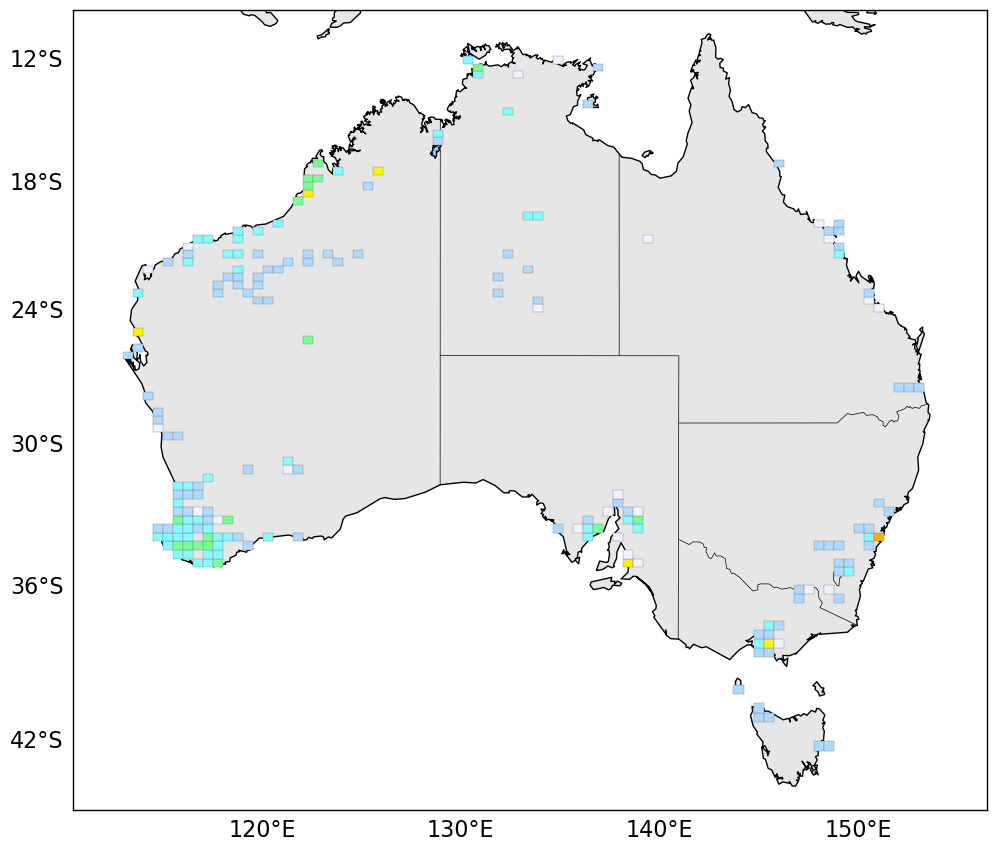
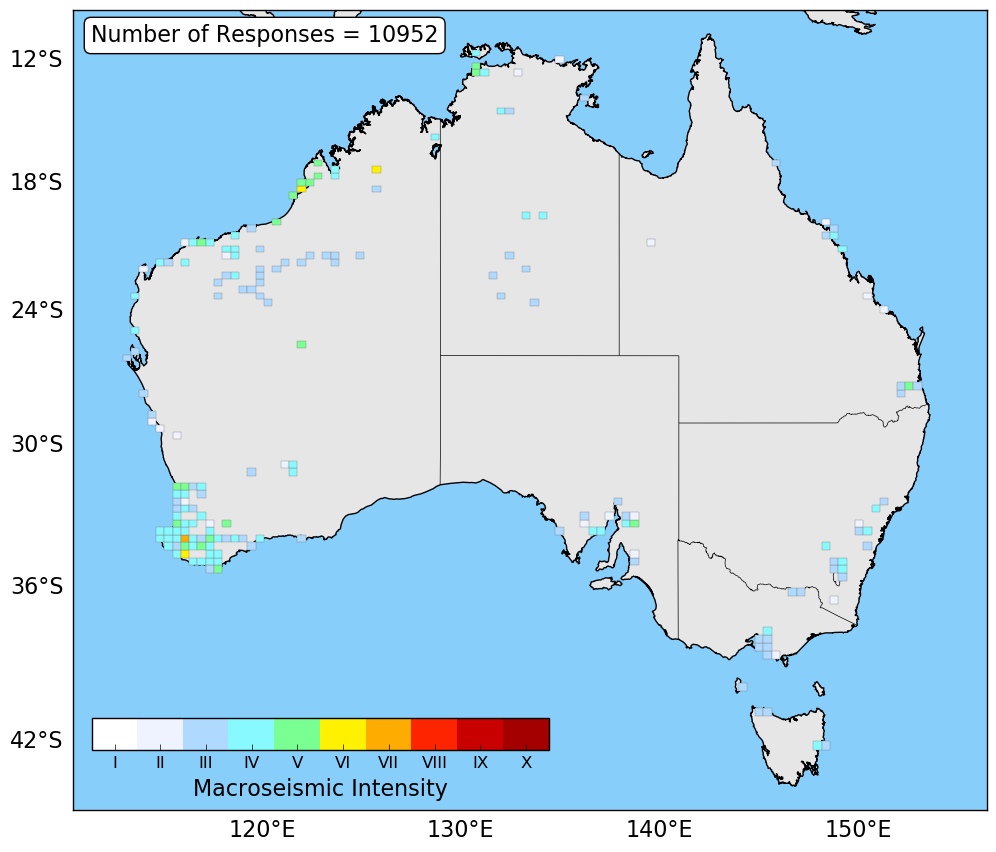
mapping updates

diff --git a/conferences/2019_aees/map_national_aggregated_mmi_count.py b/conferences/2019_aees/map_national_aggregated_mmi_count.py
@@ -26,6 +26,7 @@ from misc_tools import listdir_extension
 from numpy import array, isnan, nan, unique, mean, percentile, arange, where
 from os import path, getcwd
 from mapping_tools import make_street_map, get_map_polygons, mask_outside_polygons, annotate_cities
+from datetime import datetime
 
 ###############################################################################
 # parse catalogue
@@ -53,6 +54,7 @@ for jsonfile in all_geojson:
 # loop through events and match json files
 ###############################################################################
 
+first_date = datetime(2030, 12, 12)
 for i, event in enumerate(events):
     events[i]['dyfi'] = nan # initialise
     
@@ -61,6 +63,11 @@ for i, event in enumerate(events):
             dyfi_dict = return_dyfi_data(path.join(json_folder, jsonfile))
             
             events[i]['dyfi'] = dyfi_dict
+            
+            if event['datetime'] < first_date:
+                first_date = event['datetime']
+                
+print('First Date', first_date)
 
 ###############################################################################
 # loop through events get unique centroids
@@ -71,6 +78,7 @@ cent_latlist = []
 cent_mmi = []
 cent_nresp = []
 total_nresp = 0
+ev_count = 0
 
 centroids = []
 for i, event in enumerate(events):
@@ -85,7 +93,12 @@ for i, event in enumerate(events):
            
            # add nresp
            total_nresp += rec['nresp']
+           len_recs = len(event['dyfi'])
+       
+       if len_recs > 2:
+           ev_count += 1
 
+crash = crash
 cent_lonlist = array(cent_lonlist)
 cent_latlist = array(cent_latlist)
 cent_mmi = array(cent_mmi)
@@ -143,10 +156,10 @@ mpl.style.use('classic')
 ##########################################################################################
 # get colormap
 if getcwd().startswith('/nas'):
-    cptfile = '/nas/active/ops/community_safety/ehp/georisk_earthquake/hazard/DATA/cpt/mi_pop.cpt'
+    cptfile = '/nas/active/ops/community_safety/ehp/georisk_earthquake/hazard/DATA/cpt/qual-dark-06.cpt'
 else:
-    cptfile = '//Users//trev//Documents//DATA//GMT//cpt//mi_pop.cpt'
-ncols = 10
+    cptfile = '//Users//trev//Documents//DATA//GMT//cpt//qual-dark-06.cpt'
+ncols = 6
 cmap, zvals = cpt2colormap(cptfile, ncols+1, rev=False)
 cmap = remove_last_cmap_colour(cmap)
 cs = (cmap(arange(ncols)))
@@ -241,6 +254,7 @@ while lon_grd < maxlon:
        if len(idx) > 0:
            grd_mmi.append(max(cent_mmi[idx]))
            grd_count.append(len(idx))
+           #!!! need to add datetimes and hstack then get unique!!!
        else:
            grd_mmi.append(nan)
            grd_count.append(nan)
@@ -249,8 +263,10 @@ while lon_grd < maxlon:
        
     lon_grd = nxt_lon
 
-for geom, mi in zip(grd_geom, grd_mmi):
-    if not isnan(mi):
+# make coulour idx for counts
+bounds = array([1, 3, 5, 10, 20, 100])
+for geom, gcnt in zip(grd_geom, grd_count):
+    if not isnan(gcnt):
     
         # map grid
         pltx = array(geom)[:,0]
@@ -258,8 +274,8 @@ for geom, mi in zip(grd_geom, grd_mmi):
         
         x, y = m(pltx, plty) 
         
-        colidx = int(round(mi))-1
-        c= tuple(cs[colidx][:-1])
+        cidx = where(bounds <= gcnt)[0][-1] # take last idx
+        c= tuple(cs[cidx][:-1])
         plt.fill(x, y, fc=c, ec='0.45', lw=0.25, zorder=100)
         
        # plt.plot(x, y, '-', c='0.5', lw=0.5)   
@@ -293,18 +309,18 @@ axins = inset_axes(ax,
                    loc=3,
                    bbox_to_anchor=(0.01,0.062,1,1), bbox_transform=ax.transAxes)
                     
-norm = mpl.colors.Normalize(vmin=0.5, vmax=10.5)#myb
+norm = mpl.colors.Normalize(vmin=0, vmax=6)#myb
 cb = colorbar.ColorbarBase(axins, cmap=cmap, norm=norm, orientation='horizontal')
 
 # set cb labels
-ticks = range(1,11)
-rom_num = ['I', 'II', 'III', 'IV', 'V', 'VI','VII','VIII','IX','X']
+ticks = arange(0.5,6)
+cnt_rng = ['1', '2-3', '4-5', '6-10', '11-20', '21+']
 cb.set_ticks(ticks)
-cb.set_ticklabels(rom_num)
+cb.set_ticklabels(cnt_rng)
 
-titlestr = 'Macroseismic Intensity'
+titlestr = 'Number of Felt Events'
 cb.set_label(titlestr, fontsize=16)
 
 
-plt.savefig('map_nat_agg_mmi.png', fmt='png', bbox_inches='tight')
+plt.savefig('map_nat_agg_mmi_count.png', fmt='png', bbox_inches='tight')
 plt.show()

diff --git a/conferences/2019_aees/example_aggregation.py b/conferences/2019_aees/example_aggregation.py
@@ -24,15 +24,18 @@ cs = (cmap(arange(ncols)))
 # set mmi
 ##########################
 
-rand_mmi = 10*random.rand(25) / 2 + 1
-rand_mmi[7] = 7.
+rand_mmi = 10*random.rand(49) / 2 + 1
+rand_mmi[10] = 7.
+rand_mmi[29] = 7.
 
 idx = rand_mmi < 2.5
 rand_mmi[idx] = 3.
 rand_mmi[21] = 2.
 rand_mmi[4] = 2.
+rand_mmi[42] = 2.
+rand_mmi[18] = 2.
 
-locs = arange(0,51,10)
+locs = arange(0,36,5)
 
 ##########################
 # set figs
@@ -42,8 +45,8 @@ fig = plt.figure(1, figsize=(12, 6))
 ax = plt.subplot(121)
 
 k = 0
-for i in arange(0, 5):
-    for j in arange(0, 5):
+for i in arange(0, 7):
+    for j in arange(0, 7):
 
         # now plot
         pltx = [locs[i], locs[i+1], locs[i+1], locs[i], locs[i]]
@@ -57,7 +60,7 @@ for i in arange(0, 5):
 
 plt.xlabel('Easting (km)', fontsize=16)
 plt.ylabel('Northing (km)', fontsize=16)
-plt.text(1, 49, '(a)', va='top', ha='left', fontsize=20)
+plt.text(35*0.02, 35*0.98, '(a)', va='top', ha='left', fontsize=20)
 
 ##########################
 # set figs 2
@@ -76,7 +79,7 @@ plt.fill(pltx, plty, fc=c, ec='k', lw=0.75)
 
 plt.xlabel('Easting (km)', fontsize=16)
 plt.ylabel('Northing (km)', fontsize=16)
-plt.text(1, 49, '(b)', va='top', ha='left', fontsize=20, zorder=100)
+plt.text(35*0.02, 35*0.98, '(b)', va='top', ha='left', fontsize=20, zorder=100)
 
 ##########################
 # make colorbar
